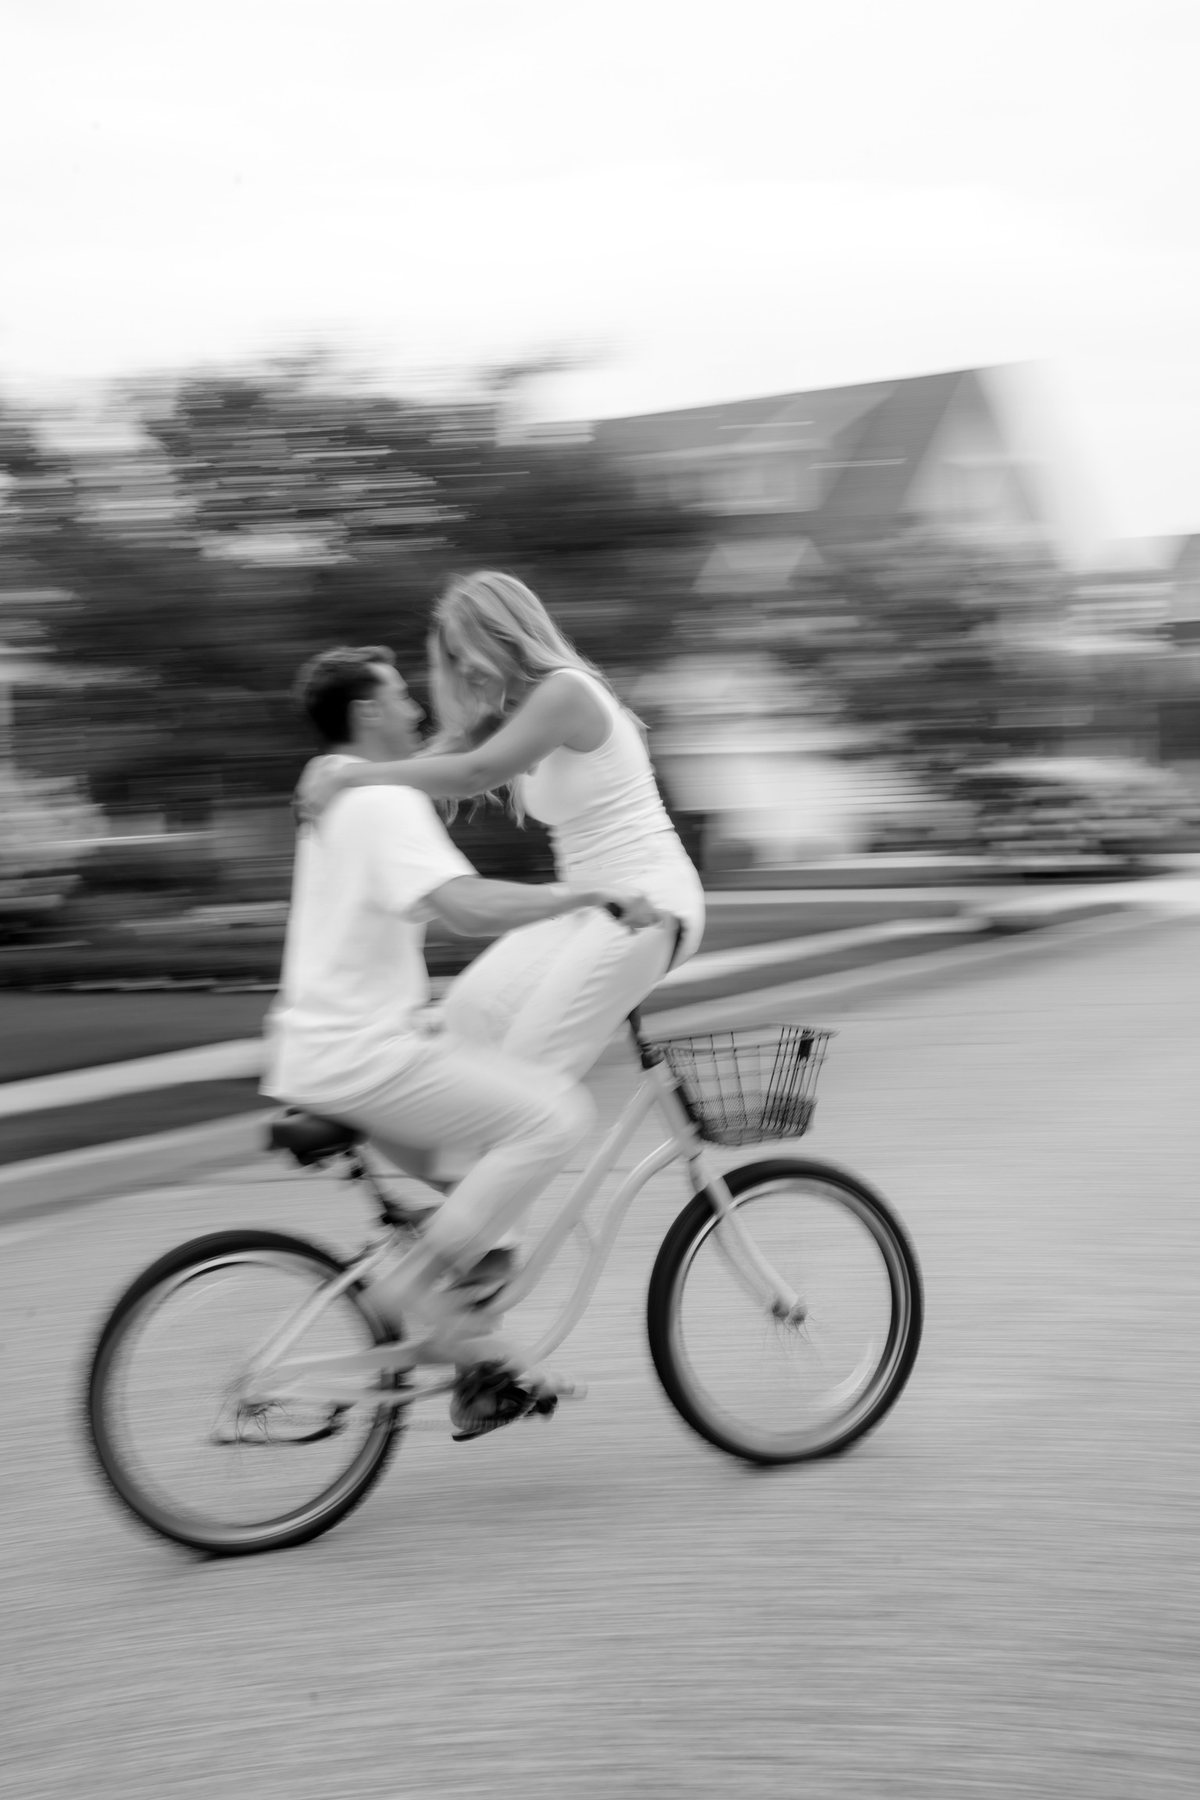
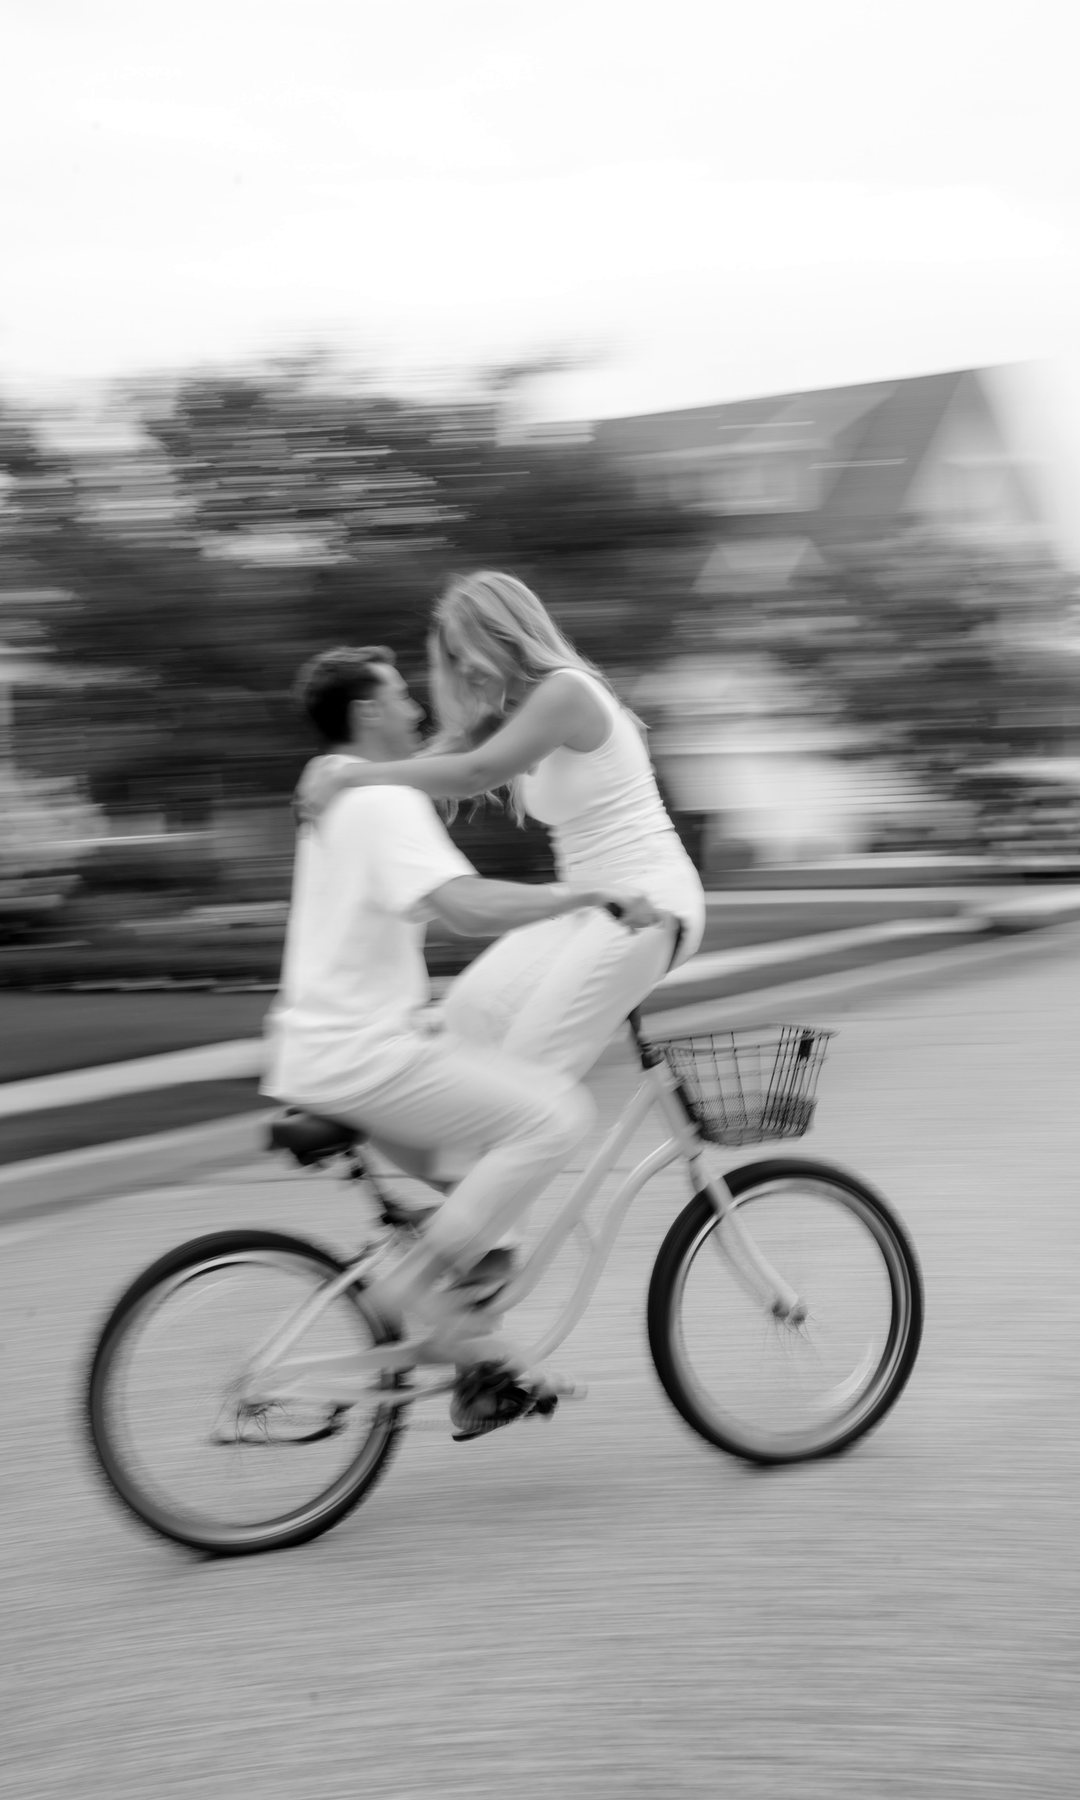
Hero: per-photo focal points; re-crop bike-together to center subject

Changed region(s): [[0.0611, 0.1867, 1.0, 0.8711]]

diff --git a/garcia-wedding/app/components/WeddingSite.tsx b/garcia-wedding/app/components/WeddingSite.tsx
@@ -8,12 +8,14 @@ import NoteFromCouple from './NoteFromCouple';
 const HG = '/photos/agenda/hg.png';
 // Hero slideshow — engagement shoot, crossfading every 2.5s.
 // Landscape frames lead; portraits are center-cropped by object-fit.
+// Each frame carries its own focal point — portraits need a lower focus so bodies
+// (not just heads) sit centered when cropped into the wide hero.
 const HERO_PHOTOS = [
-  '/photos/eng-beach-walk.jpg',
-  '/photos/eng-bikes-motion.jpg',
-  '/photos/eng-dunes-sitting.jpg',
-  '/photos/eng-beach-lift.jpg',
-  '/photos/eng-bike-together.jpg',
+  { src: '/photos/eng-beach-walk.jpg',    pos: 'center 40%' },
+  { src: '/photos/eng-bikes-motion.jpg',  pos: 'center 45%' },
+  { src: '/photos/eng-dunes-sitting.jpg', pos: 'center 45%' },
+  { src: '/photos/eng-beach-lift.jpg',    pos: 'center 70%' },
+  { src: '/photos/eng-bike-together.jpg', pos: 'center 50%' },
 ];
 const HERO_MS = 2500;
 
@@ -746,14 +748,14 @@ export default function WeddingSite() {
           position: 'relative', overflow: 'hidden',
         }}
       >
-        {HERO_PHOTOS.map((src, i) => (
+        {HERO_PHOTOS.map((p, i) => (
           <img
-            key={src}
-            src={src}
+            key={p.src}
+            src={p.src}
             alt=""
             style={{
               position: 'absolute', inset: 0, width: '100%', height: '100%',
-              objectFit: 'cover', objectPosition: 'center 40%',
+              objectFit: 'cover', objectPosition: p.pos,
               filter: 'saturate(1.05) brightness(.95) contrast(1.06)',
               opacity: i === heroIdx ? 1 : 0,
               transition: 'opacity 1.1s ease',
